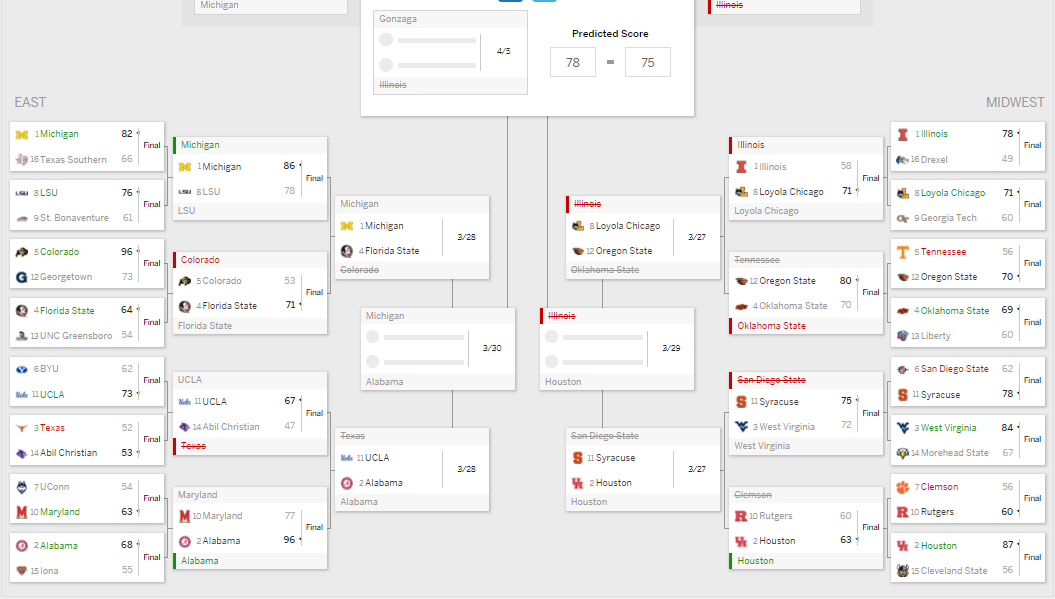
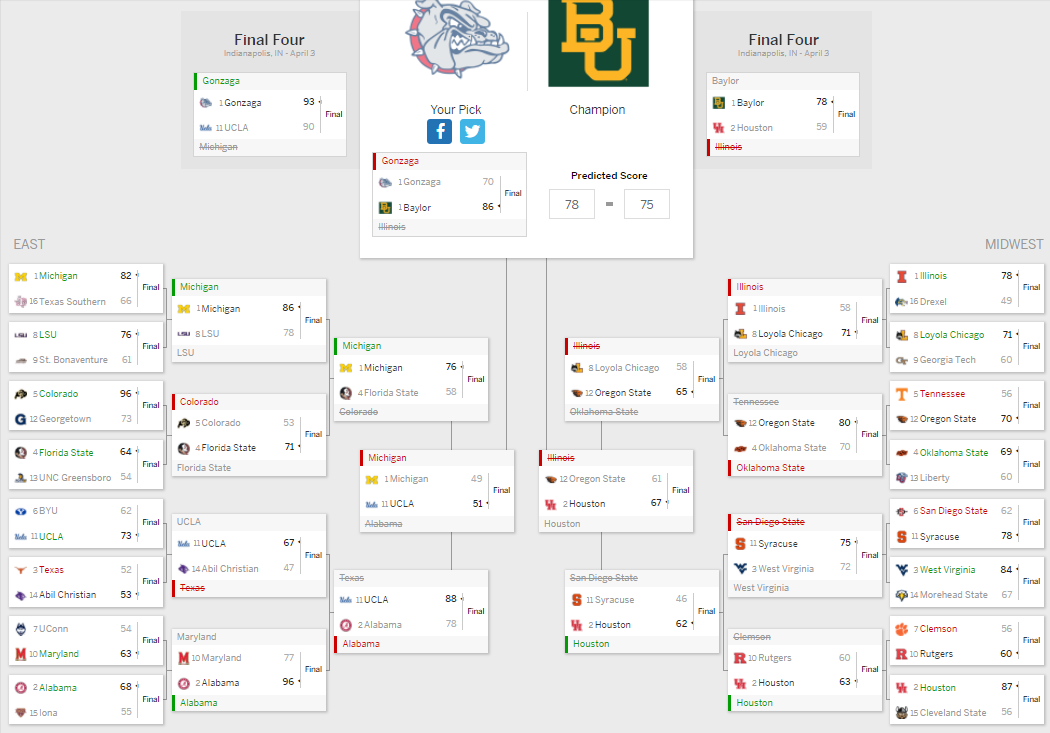
Post Mortum

diff --git a/2021/03/17/predicting-march-madness-with-machine-learning/index.html b/2021/03/17/predicting-march-madness-with-machine-learning/index.html
@@ -62,7 +62,7 @@
 
   <article class="article">
     
-    <span class="article-duration">13 min read</span>
+    <span class="article-duration">14 min read</span>
     
 
     <h1 class="article-title">Predicting March Madness with Machine Learning</h1>
@@ -350,24 +350,23 @@ Illinois</code></pre>
 ## 13 Illinois             79              68.2        73.3                 105.
 ## 14 Illinois             79.9            69.6        73.3                 105.
 ## # ... with 1 more variable: RollingMeanDefRating &lt;dbl&gt;</code></pre>
-<p>I’m expecting both teams to get around 75 possessions, both scoring about a point per possession (100 Offensive Rating). Gonzaga will win a close one: 80-75.</p>
+<p>I’m expecting both teams to get around 75 possessions, both scoring about a point per possession (100 Offensive Rating). Gonzaga will win a close one: 78-75.</p>
 </div>
-<div id="how-it-went-first-weekend" class="section level2">
-<h2>How It Went: First Weekend</h2>
-<p>Awaiting the Sweet 16 and having no clue how to function for a week without basketball, my model did … okay. That Colgate pick definitely didn’t work out but the whole bottom half of the South has been a struggle. Compared to any other model I made, this one has done the best so far - best here still isn’t great. It’s gotten 73% of games correct which is better than I did choosing on my own; so overall, a success thus far.</p>
-<div class="figure">
-<img src="images/Top.png" width="1045" height="670" alt="" />
-<p class="caption">My West and South Prediction</p>
-</div>
-<div class="figure">
-<img src="images/Bottom.png" width="1045" height="670" alt="" />
-<p class="caption">My East and Midwest Prediction</p>
-</div>
-<p>Some close games - the model expected to be about 50/50 - that I missed:
-Oregon v. VCU (tough luck VCU) and Colorado v Florida State.</p>
-<p>Some close games - according to the model - that I got right:
-Oklahoma v. Missouri, Kansas v. USC, Creighton v. UCSB, LSU v. St Bonaventure, Maryland v. UConn, and Villanova v. Winthrop.</p>
-<p>Honestly, the model did really well predicting those supposed 50/50 games. Unfortunately, it missed the marks on Colgate, Oral Roberts, Oregon State, San Diego State, and Loyola Chicago (1 of my initial models did have these guys winning). Excited to see how this next weekend pans out!</p>
+<div id="post-mortum" class="section level2">
+<h2>Post Mortum</h2>
+<p>As March Madness came to a close this year, my model did … solid. The B1G disappointed and that definitely hurt, but looking at the class standings, I finished middle of the pack.</p>
+<p><img src="images/ClassRankings.png" /></p>
+<p>I was distinctively at the bottom of anyone who choose one of the two finalists, but I didn’t do super well outside of banking on Gonzaga. Now, compared to any other model I made, this one was my second best - I had one where I picked Baylor v. Gonzaga in the final. The model got about 72% of the games correct which is better than I would have done choosing solely on my own; truly, this model building gave me way more knowledge about this college basketball season than I had beforehand.</p>
+<p><img src="images/Top.png" width="1045" height="670" /></p>
+<p><img src="images/Bottom.png" width="1045" height="670" /></p>
+<p>Some close games in the first round - the model expected to be about 50/50 - that I missed:
+Oregon vs. VCU (tough luck VCU), and Colorado vs. Florida State.</p>
+<p>Some close games in the first round - according to the model - that I got right:
+Oklahoma vs. Missouri, Kansas vs. USC, Creighton vs. UCSB, Maryland vs. UConn, and Villanova vs. Winthrop.</p>
+<p>Honestly, the model did really well predicting those supposed 50/50 games. Unfortunately, it missed the marks on Colgate, Oral Roberts, Oregon State, San Diego State, and Loyola Chicago. There were bigger issues with my model than just missing the close games.</p>
+<p>Retrospectively, it would’ve been nice to know the B1G was going to be stuck in Indianapolis that whole week before, and I’m personally using that as the reason why the conference performed so poorly. I can make complaints about things out of my control and changes that can not be reflected in the data; but I definitely think there is some work to do before next year’s contest. The possession metrics seemed like a great idea - they are great for predicting results after you have the data - but they are so difficult to predict on their own. There was too big of dropoff between training and testing results, and therefore, I’m going to consider using variables that aggregate into those possession metrics (shooting statistics, turnovers, offense rebounds, etc.).</p>
+<p>Additionally, I’m looking to maybe change the rolling window. If I’m going to look for more stabilized, long-term team performances, I might as well make it all of conference play or all of the season. If I’m going to look for a more short-term window, I might as well try to highly value teams that were playing well in the final few games of the season - Baylor I think is a good example. The final feature engineering change will be a better Win Quality measure - RPI has historically done well predicting the tournament. With more intraconference play next season, I feel my model should perform better, but there’s definitely room on my end to improve as well.</p>
+<p>Overall, I feel this project was quite successful. This got me more excited about the tournament, built a better bracket, and taught me more about the college basketball teams this year. I think with a little human tinkering after running my model next year, I might win a tournament next year - as long as I don’t take the Huskers too far in it!</p>
 </div>
 
     </div>
